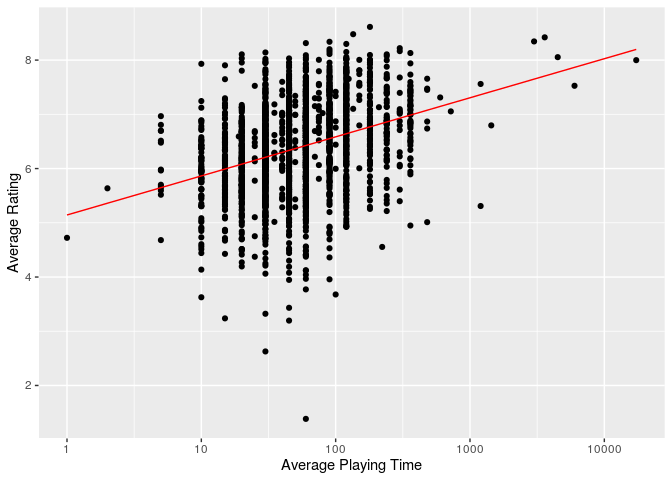
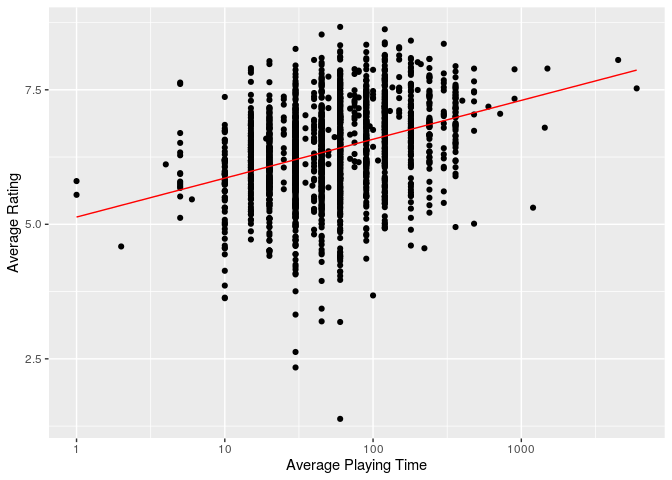
PLaying_time ~ average_rating update
evaluating models  RMSE + comments

diff --git a/extra/testing.md b/extra/testing.md
@@ -1,4 +1,4 @@
-tester
+average rating \~ playtime
 ================
 
 ``` r
@@ -9,99 +9,102 @@ library(here)
 library(tidymodels)
 ```
 
-## R Markdown
+## Initial PLots
 
 ``` r
-summary(board_games)
+board_games %>%
+  ggplot(aes(playing_time, average_rating)) +
+  geom_point(alpha = 0.6)
 ```
 
-    ##     game_id       description           image            max_players     
-    ##  Min.   :     1   Length:10532       Length:10532       Min.   :  0.000  
-    ##  1st Qu.:  5444   Class :character   Class :character   1st Qu.:  4.000  
-    ##  Median : 28822   Mode  :character   Mode  :character   Median :  4.000  
-    ##  Mean   : 62059                                         Mean   :  5.657  
-    ##  3rd Qu.:126410                                         3rd Qu.:  6.000  
-    ##  Max.   :216725                                         Max.   :999.000  
-    ##   max_playtime         min_age        min_players     min_playtime     
-    ##  Min.   :    0.00   Min.   : 0.000   Min.   :0.000   Min.   :    0.00  
-    ##  1st Qu.:   30.00   1st Qu.: 8.000   1st Qu.:2.000   1st Qu.:   25.00  
-    ##  Median :   45.00   Median :10.000   Median :2.000   Median :   45.00  
-    ##  Mean   :   91.34   Mean   : 9.715   Mean   :2.071   Mean   :   80.88  
-    ##  3rd Qu.:   90.00   3rd Qu.:12.000   3rd Qu.:2.000   3rd Qu.:   90.00  
-    ##  Max.   :60000.00   Max.   :42.000   Max.   :9.000   Max.   :60000.00  
-    ##      name            playing_time       thumbnail         year_published
-    ##  Length:10532       Min.   :    0.00   Length:10532       Min.   :1950  
-    ##  Class :character   1st Qu.:   30.00   Class :character   1st Qu.:1998  
-    ##  Mode  :character   Median :   45.00   Mode  :character   Median :2007  
-    ##                     Mean   :   91.34                      Mean   :2003  
-    ##                     3rd Qu.:   90.00                      3rd Qu.:2012  
-    ##                     Max.   :60000.00                      Max.   :2016  
-    ##     artist            category         compilation          designer        
-    ##  Length:10532       Length:10532       Length:10532       Length:10532      
-    ##  Class :character   Class :character   Class :character   Class :character  
-    ##  Mode  :character   Mode  :character   Mode  :character   Mode  :character  
-    ##                                                                             
-    ##                                                                             
-    ##                                                                             
-    ##   expansion            family            mechanic          publisher        
-    ##  Length:10532       Length:10532       Length:10532       Length:10532      
-    ##  Class :character   Class :character   Class :character   Class :character  
-    ##  Mode  :character   Mode  :character   Mode  :character   Mode  :character  
-    ##                                                                             
-    ##                                                                             
-    ##                                                                             
-    ##  average_rating   users_rated     
-    ##  Min.   :1.384   Min.   :   50.0  
-    ##  1st Qu.:5.830   1st Qu.:   85.0  
-    ##  Median :6.393   Median :  176.0  
-    ##  Mean   :6.371   Mean   :  870.1  
-    ##  3rd Qu.:6.943   3rd Qu.:  518.0  
-    ##  Max.   :9.004   Max.   :67655.0
+![](testing_files/figure-gfm/plot-1.png)<!-- -->
+
+We can see that this plot is fairly useless as the x axis is stretched
+very far because there is a game with a playtime of 60000 minutes. To
+counter this I will log the x axis.
+
+``` r
+board_games %>%
+  filter(playing_time != 0) %>%
+  ggplot(aes(playing_time, average_rating)) +
+  geom_point(alpha = 0.6) +
+  scale_x_log10()
+```
+
+![](testing_files/figure-gfm/log_scale-1.png)<!-- -->
+
+After manipulating the axes and filtering out games with a
+`playing_time` = 0, we can see that there is a slight positive
+correlation between the `playing_time` and `average_rating`.
+
+## Splitting Data
+
+Here I just want to split my data into training data and testing data so
+that I can experiment and work on my model before lettin git model all
+of the data to avoid overfitting the model.
 
 ``` r
 board_games <- board_games %>%
-  filter(playing_time != 0)
+  filter(playing_time != 0, min_playtime != 0)
 
 set.seed(1116)
 
 games_split <- initial_split(board_games, prop = 0.8)
 train_data <- training(games_split)
 test_data <- testing(games_split) 
+
+# splitting data into training/test data
 ```
 
-## Including Plots
+## Creating Models
+
+Here I am creating two simple linear regression models between
+`playing_time` and `average_rating`, and `playing_time`, `min_playtime`
+and `average_rating`. I puprosely left out `max_playtime` because in the
+data `playing_time` and `max_playtime` are always the same, meaning that
+adding the `max_playtime` would be irrelevant.
 
 ``` r
 games_lm_mod <- linear_reg() %>%
   set_engine("lm")
 
 games_play_recipe <- recipe(average_rating ~ playing_time, data = train_data) %>%
-  step_filter(playing_time != 0) %>%
-  step_log(all_predictors()) 
+  step_log(all_predictors())
+
+# for the same reason I logged the x axis in the second plot,
+# I am logging the data to make the plot nicer
 
 games_play_workflow <- workflow() %>%
   add_model(games_lm_mod) %>%
   add_recipe(games_play_recipe)
 
+# here I am fitting the model to the train data
+
+games_play_fit <- games_play_workflow %>% 
+  fit(data = train_data)
+
+# Here I am doing exactly the same process as before
+# the only difference is that I am including `min_playtime` in the model now
+
 games_play_all_recipe <- recipe(
-  average_rating ~ playing_time + min_playtime + max_playtime,
+  average_rating ~ playing_time + min_playtime,
   data = train_data
   ) %>%
-  step_filter(playing_time != 0) %>%
   step_log(all_predictors())
 
 games_play_all_workflow <- workflow() %>%
   add_model(games_lm_mod) %>%
-  add_recipe(games_play_all_recipe)  
+  add_recipe(games_play_all_recipe)
 
-games_play_fit <- games_play_workflow %>% 
+games_play_all_fit <- games_play_all_workflow %>%
   fit(data = train_data)
 ```
 
-positive playtime coefficient implies that as playtime increases average
-rating is expected to increase.
-
 ``` r
+# this code is creating a data frame of the predicted
+# average ratings based on the model with only the
+# `playing_time` variable
+
 games_play_pred <- predict(games_play_fit, test_data) %>%
   bind_cols(test_data)
 
@@ -116,49 +119,139 @@ games_play_pred %>%
 ![](testing_files/figure-gfm/predict-1.png)<!-- -->
 
 ``` r
-board_games %>%
-  ggplot(aes(playing_time, average_rating)) +
-  geom_point(alpha = 0.6)
+glance(games_play_fit %>% pull_workflow_fit())
 ```
 
-![](testing_files/figure-gfm/plot-1.png)<!-- -->
+    ## # A tibble: 1 x 12
+    ##   r.squared adj.r.squared sigma statistic   p.value    df logLik    AIC    BIC
+    ##       <dbl>         <dbl> <dbl>     <dbl>     <dbl> <dbl>  <dbl>  <dbl>  <dbl>
+    ## 1     0.121         0.121 0.786     1119. 6.46e-230     1 -9585. 19175. 19196.
+    ## # … with 3 more variables: deviance <dbl>, df.residual <int>, nobs <int>
 
 ``` r
-games_play_pred %>%
-  filter(playing_time < 1)
+# this code is doing the same as above, creating a data frame
+# of the predicted average values from the model with 
+# `playing_time` and `min_playtime`
+
+games_play_all_pred <- predict(games_play_all_fit, test_data) %>%
+  bind_cols(test_data)
+
+# here I am joining the data frames so I am able to see the predicted
+# average rating from the simple model and the model with both
+# variables in one place compared to the actual `average_rating`
+
+games_play_all_pred %>%
+  mutate(.pred_all = .pred, .keep = "unused") %>%
+  right_join(games_play_pred) %>%
+  select(.pred, .pred_all, average_rating, everything())
 ```
 
-    ## # A tibble: 0 x 23
-    ## # … with 23 variables: .pred <dbl>, game_id <dbl>, description <chr>,
-    ## #   image <chr>, max_players <dbl>, max_playtime <dbl>, min_age <dbl>,
-    ## #   min_players <dbl>, min_playtime <dbl>, name <chr>, playing_time <dbl>,
-    ## #   thumbnail <chr>, year_published <dbl>, artist <chr>, category <chr>,
-    ## #   compilation <chr>, designer <chr>, expansion <chr>, family <chr>,
-    ## #   mechanic <chr>, publisher <chr>, average_rating <dbl>, users_rated <dbl>
+    ## Joining, by = c("game_id", "description", "image", "max_players", "max_playtime", "min_age", "min_players", "min_playtime", "name", "playing_time", "thumbnail", "year_published", "artist", "category", "compilation", "designer", "expansion", "family", "mechanic", "publisher", "average_rating", "users_rated")
+
+    ## # A tibble: 2,034 x 24
+    ##    .pred .pred_all average_rating game_id description image max_players
+    ##    <dbl>     <dbl>          <dbl>   <dbl> <chr>       <chr>       <dbl>
+    ##  1  6.42      6.37           6.61       4 When you s… //cf…           4
+    ##  2  6.42      6.37           6.75      10 Elfenland … //cf…           6
+    ##  3  6.33      6.28           7.07      11 Bohnanza i… //cf…           7
+    ##  4  6.42      6.51           7.48      12 Ra is an a… //cf…           5
+    ##  5  6.64      7.04           7.15      18 The robots… //cf…           8
+    ##  6  6.55      6.48           7.44      20 In this ga… //cf…           4
+    ##  7  6.86      6.76           7.14      22 From the 2… //cf…          16
+    ##  8  6.20      6.17           6.04      32 In Bison, … //cf…           2
+    ##  9  6.64      6.56           5.70      37 This odd l… //cf…           4
+    ## 10  6.42      6.37           6.45      44 This game … //cf…           6
+    ## # … with 2,024 more rows, and 17 more variables: max_playtime <dbl>,
+    ## #   min_age <dbl>, min_players <dbl>, min_playtime <dbl>, name <chr>,
+    ## #   playing_time <dbl>, thumbnail <chr>, year_published <dbl>, artist <chr>,
+    ## #   category <chr>, compilation <chr>, designer <chr>, expansion <chr>,
+    ## #   family <chr>, mechanic <chr>, publisher <chr>, users_rated <dbl>
+
+## Evaluating my models
+
+To evaluate the models I used chi squared and root mean squared error
+(RMSE).
 
 ``` r
-board_games %>%
-  filter(playing_time > 40000) %>%
-  select(name)
+rmse(games_play_pred, average_rating, .pred)
 ```
 
-    ## # A tibble: 1 x 1
-    ##   name                         
-    ##   <chr>                        
-    ## 1 The Campaign for North Africa
+    ## # A tibble: 1 x 3
+    ##   .metric .estimator .estimate
+    ##   <chr>   <chr>          <dbl>
+    ## 1 rmse    standard       0.790
 
 ``` r
-board_games %>%
-  filter(playing_time != 0) %>%
-  ggplot(aes(playing_time, average_rating)) +
-  geom_point(alpha = 0.6) +
-  scale_x_log10()
+#evaluating my average_rating ~ playing_time model using root mean square error
+
+rmse(games_play_all_pred, average_rating, .pred)
 ```
 
-![](testing_files/figure-gfm/log_scale-1.png)<!-- -->
+    ## # A tibble: 1 x 3
+    ##   .metric .estimator .estimate
+    ##   <chr>   <chr>          <dbl>
+    ## 1 rmse    standard       0.781
 
 ``` r
-no_playtime <- board_games %>%
-  filter(playing_time == 0) %>%
-  arrange(desc(average_rating))
+#evaluating my average_rating ~ playing_time + min_playtime model using chi squared and root mean square error
 ```
+
+``` r
+set.seed(450)
+
+folds <- vfold_cv(train_data, v = 50)
+
+# fit resampling
+
+set.seed(451)
+
+games_play_fit_rs <- games_play_workflow %>%
+  fit_resamples(folds)
+```
+
+    ## 
+    ## Attaching package: 'rlang'
+
+    ## The following objects are masked from 'package:purrr':
+    ## 
+    ##     %@%, as_function, flatten, flatten_chr, flatten_dbl, flatten_int,
+    ##     flatten_lgl, flatten_raw, invoke, list_along, modify, prepend,
+    ##     splice
+
+    ## 
+    ## Attaching package: 'vctrs'
+
+    ## The following object is masked from 'package:dplyr':
+    ## 
+    ##     data_frame
+
+    ## The following object is masked from 'package:tibble':
+    ## 
+    ##     data_frame
+
+``` r
+collect_metrics(games_play_fit_rs)
+```
+
+    ## # A tibble: 2 x 6
+    ##   .metric .estimator  mean     n std_err .config             
+    ##   <chr>   <chr>      <dbl> <int>   <dbl> <chr>               
+    ## 1 rmse    standard   0.784    50 0.00800 Preprocessor1_Model1
+    ## 2 rsq     standard   0.127    50 0.00722 Preprocessor1_Model1
+
+``` r
+games_play_all_fit_rs <- games_play_all_workflow %>%
+  fit_resamples(folds)
+
+collect_metrics(games_play_all_fit_rs)
+```
+
+    ## # A tibble: 2 x 6
+    ##   .metric .estimator  mean     n std_err .config             
+    ##   <chr>   <chr>      <dbl> <int>   <dbl> <chr>               
+    ## 1 rmse    standard   0.770    50 0.00801 Preprocessor1_Model1
+    ## 2 rsq     standard   0.161    50 0.00746 Preprocessor1_Model1
+
+We can see from comparing the 2 RMSE and rsq mean values that the model
+that includes `min_playtime` as well as `playing_time` is a better
+model, however this does not mean that either are good models.
